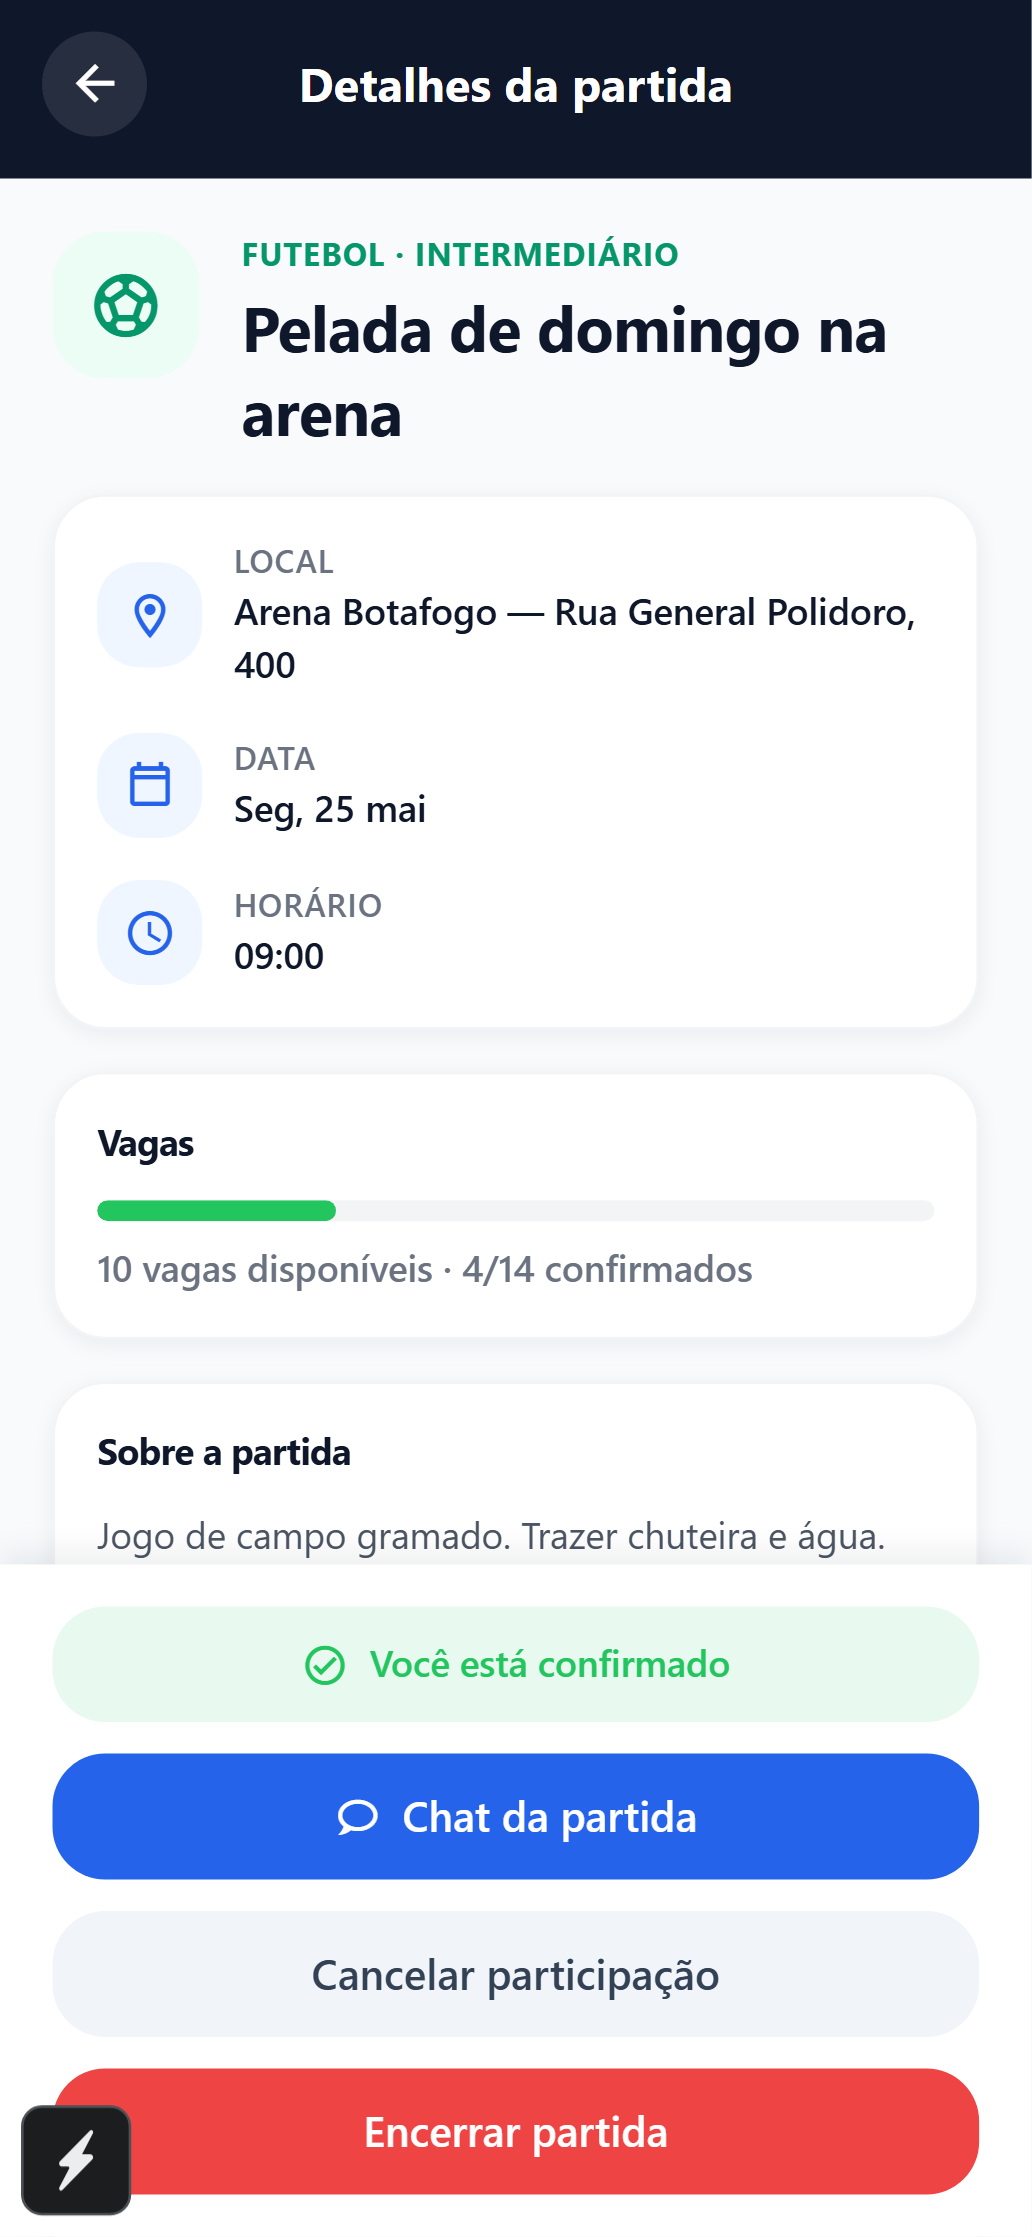
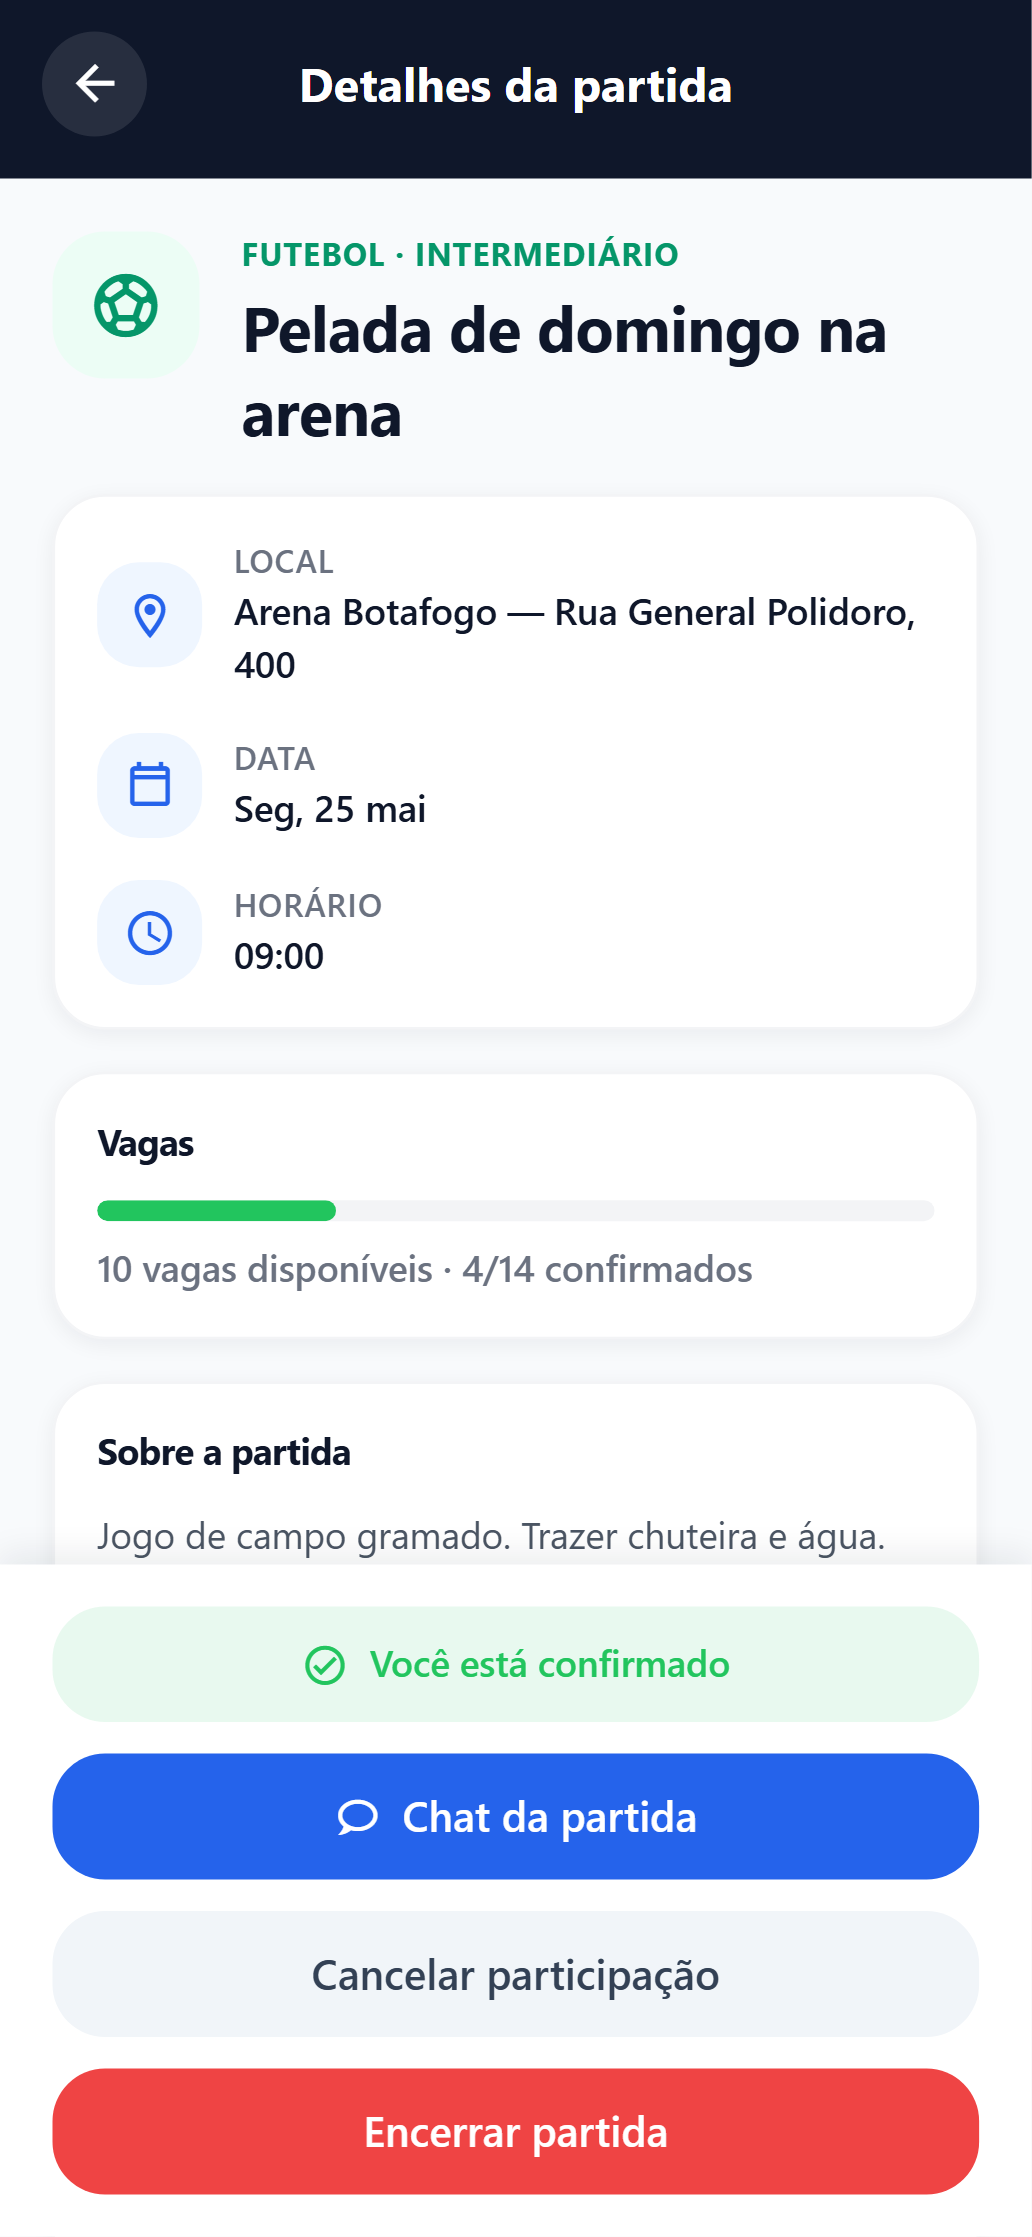
fix(tcc): esconde o badge de dev do Metro/Expo antes de cada screenshot
O dev client do Metro/Expo web injeta, de forma intermitente (nao em
todo carregamento - nao e o LogBox, que no react-native-web e so um
stub vazio sem UI), um badge flutuante quadrado com um raio no canto
inferior esquerdo. Nao encontrei o gatilho exato apesar de investigar
(nao aparece em sessoes de inspecao isoladas, so durante o fluxo real
completo do script), mas nao e parte da UI do SquadUp nem aparece na
build de producao/EAS - so polui os prints do TCC.

hideDevOverlay() roda antes de cada shot(): esconde elementos
fixed/absolute pequenos e aproximadamente quadrados colados no canto
inferior esquerdo, excluindo explicitamente qualquer coisa dentro de
a[href^="/AppTabs"]/[role="tab"] pra nao arriscar esconder a aba
"Inicio" de verdade (que ocupa a mesma regiao, mas e bem mais larga
que alta). 5 screenshots recapturados sem o badge (os que tinham
pego ele desta vez - o problema e intermitente, entao variava a cada
rodada; a proteção agora e permanente no script).

Changed region(s): [[0.0, 0.9253, 0.155, 1.0]]

diff --git a/scripts/capture-tcc-screenshots.ts b/scripts/capture-tcc-screenshots.ts
@@ -21,8 +21,36 @@ if (!TEST_PASSWORD) {
   );
 }
 
+/**
+ * O dev client do Metro/Expo web injeta, de forma intermitente (não em todo carregamento —
+ * não é o LogBox, que no react-native-web é um stub vazio), um badge flutuante quadrado no
+ * canto inferior esquerdo. Não é parte da UI do SquadUp e não aparece na build de produção/EAS
+ * — só polui o screenshot do TCC. Heurística: elemento fixed/absolute, colado no canto
+ * inferior esquerdo, pequeno e aproximadamente quadrado. Exclui explicitamente a aba "Início"
+ * da tab bar real (fica na mesma região, mas é bem mais larga que alta).
+ */
+async function hideDevOverlay(page: import("@playwright/test").Page) {
+  await page.evaluate(() => {
+    const vh = window.innerHeight;
+    document.querySelectorAll("body *").forEach((el) => {
+      const cs = window.getComputedStyle(el);
+      if (cs.position !== "fixed" && cs.position !== "absolute") return;
+      const rect = el.getBoundingClientRect();
+      if (rect.width === 0 || rect.height === 0) return;
+      const isBottomLeft = rect.left < 30 && rect.bottom > vh - 20 && rect.bottom <= vh + 5;
+      const ratio = rect.width / rect.height;
+      const isSmallSquare = rect.width < 90 && rect.height < 90 && ratio > 0.5 && ratio < 2;
+      const isNavTab = el.closest('a[href^="/AppTabs"], [role="tab"], [role="tablist"]');
+      if (isBottomLeft && isSmallSquare && !isNavTab) {
+        (el as HTMLElement).style.setProperty("display", "none", "important");
+      }
+    });
+  });
+}
+
 async function shot(page: import("@playwright/test").Page, name: string) {
   await page.waitForTimeout(400);
+  await hideDevOverlay(page);
   await page.screenshot({ path: `${OUT_DIR}/${name}.png` });
 }
 
